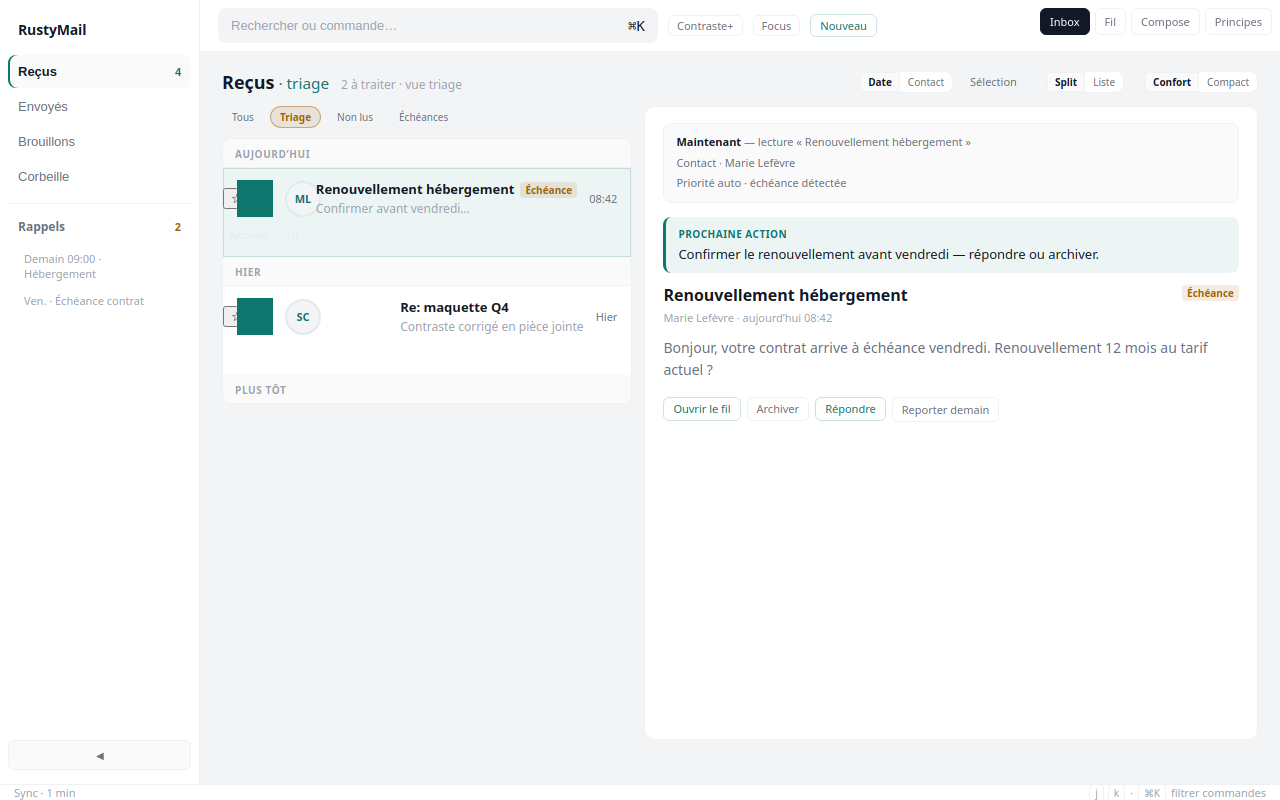
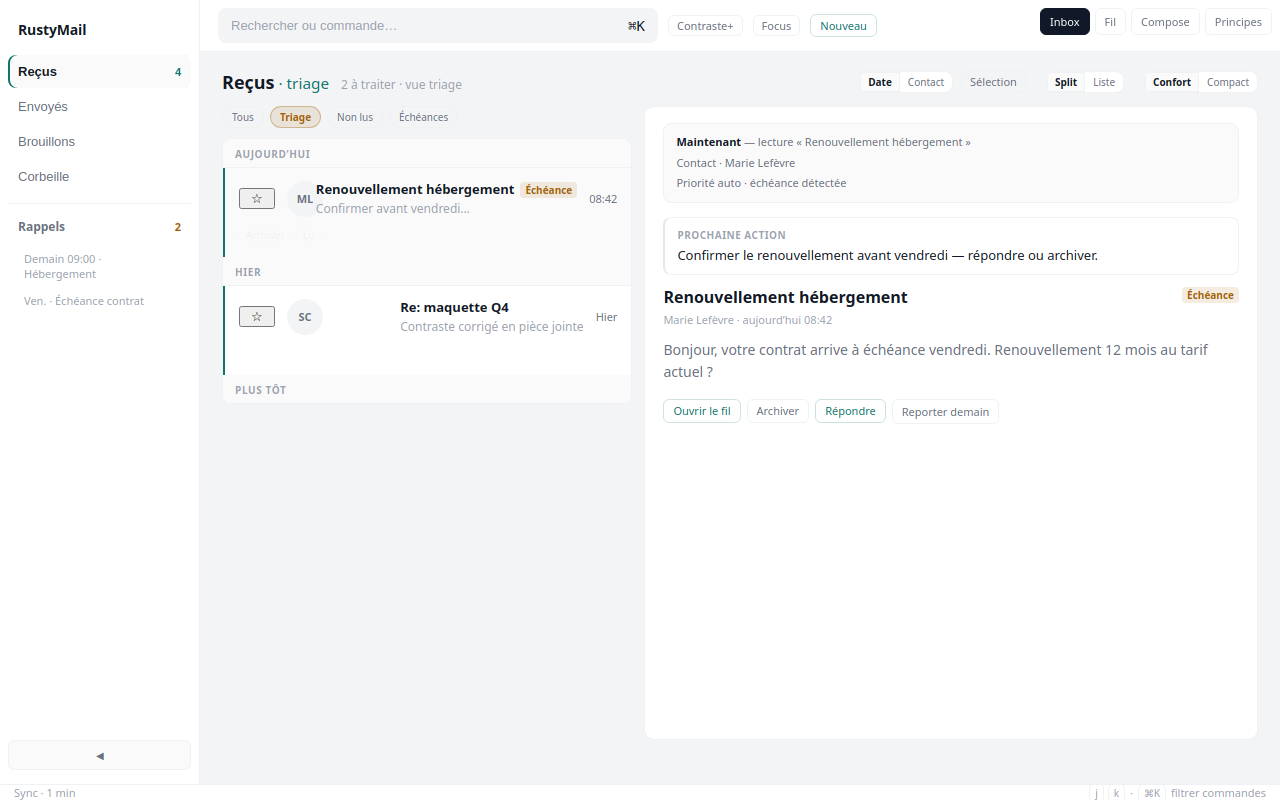
docs(mockups): inbox sans aplats teal — trait gauche discret

diff --git a/docs/mockups/clarity/clarity.css b/docs/mockups/clarity/clarity.css
@@ -379,7 +379,7 @@ a.btn-primary--soft {
   width: 6px;
   height: 6px;
   border-radius: 50%;
-  background: var(--primary);
+  background: var(--urgent);
   flex-shrink: 0;
 }
 
@@ -414,13 +414,14 @@ a.btn-primary--soft {
 
 .row {
   display: grid;
-  grid-template-columns: 2px 36px minmax(0, 1fr) auto auto;
+  grid-template-columns: 36px minmax(0, 1fr) auto auto;
   gap: 8px 12px;
   align-items: center;
-  padding: 12px 12px 12px 0;
+  padding: 12px 12px 12px 14px;
   border-bottom: 1px solid var(--border-subtle);
   transition: background var(--ease);
   position: relative;
+  border-left: 2px solid transparent;
 }
 
 .row-link {
@@ -466,8 +467,7 @@ a.btn-primary--soft {
 }
 
 .row.unread .avatar {
-  box-shadow: inset 0 0 0 2px var(--primary-ghost);
-  color: var(--primary);
+  color: var(--muted);
 }
 
 .row:last-child {
@@ -479,17 +479,21 @@ a.btn-primary--soft {
 }
 
 .row.is-selected {
-  background: var(--primary-ghost);
-  box-shadow: inset 0 0 0 1px rgba(15, 118, 110, 0.18);
+  background: var(--surface-2);
+  box-shadow: none;
+  border-left-color: var(--text);
+}
+
+.row.unread {
+  border-left-color: var(--primary);
+}
+
+.row.unread.is-selected {
+  border-left-color: var(--primary);
 }
 
 .row .stripe {
-  align-self: stretch;
-  background: transparent;
-}
-
-.row.unread .stripe {
-  background: var(--signal);
+  display: none;
 }
 
 .row.unread .subject {
@@ -940,10 +944,17 @@ body.split-off .read-pane {
 }
 
 .chip.is-on {
-  border-color: rgba(15, 118, 110, 0.35);
-  color: var(--primary);
-  background: var(--primary-ghost);
-  font-weight: 600;
+  border-color: var(--border);
+  color: var(--text);
+  background: var(--surface-2);
+  font-weight: 550;
+}
+
+.chip-triage.is-on {
+  border-color: rgba(161, 98, 7, 0.35);
+  color: var(--urgent);
+  background: var(--urgent-ghost);
+  font-weight: 550;
 }
 
 .row.is-filtered-out {
@@ -1346,7 +1357,7 @@ body.focus-mode .page-head .meta {
 }
 
 body.batch-mode .row {
-  grid-template-columns: 2px 22px 36px minmax(0, 1fr) auto auto;
+  grid-template-columns: 22px 36px minmax(0, 1fr) auto auto;
 }
 
 .row-check {
@@ -1362,7 +1373,7 @@ body.batch-mode .row-check {
 .row-check input {
   width: 14px;
   height: 14px;
-  accent-color: var(--primary);
+  accent-color: var(--text);
   cursor: pointer;
 }
 
@@ -1577,11 +1588,6 @@ body.batch-mode .batch-bar {
 }
 
 /* v9 — triage, prochaine action, rappels, checklist envoi */
-.chip-triage.is-on {
-  border-color: rgba(161, 98, 7, 0.45);
-  color: var(--urgent);
-  background: var(--urgent-ghost);
-}
 
 body.triage-view .brief {
   display: none;
@@ -1599,8 +1605,9 @@ body.triage-view .page-head h1::after {
   margin-bottom: 12px;
   padding: 10px 12px;
   border-radius: var(--radius-sm);
-  border-left: 3px solid var(--primary);
-  background: var(--primary-ghost);
+  border: 1px solid var(--border-subtle);
+  border-left: 2px solid var(--border);
+  background: var(--surface);
 }
 
 .next-action.is-visible {
@@ -1610,10 +1617,10 @@ body.triage-view .page-head h1::after {
 .next-action-label {
   display: block;
   font-size: 10px;
-  font-weight: 650;
+  font-weight: 600;
   text-transform: uppercase;
   letter-spacing: 0.05em;
-  color: var(--primary);
+  color: var(--faint);
   margin-bottom: 4px;
 }
 
